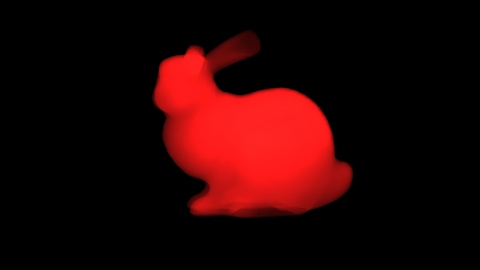
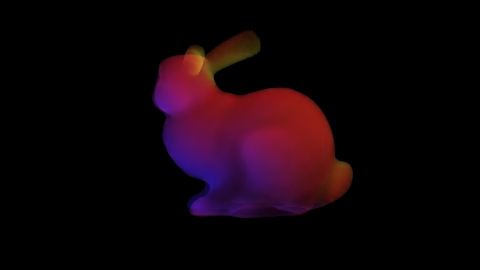
Added two more colored lights to scene; must mask field to get density of where light is and isnt

Changed region(s): [[0.3125, 0.1481, 0.75, 0.8296]]

diff --git a/base/Scene.C b/base/Scene.C
@@ -72,11 +72,21 @@ void Scene::init()
     VSP<openvdb::Vec3s> griddedColor = gridField<openvdb::Vec3SGrid, openvdb::Vec3s>(colorGrid);
 
     // Create Deep Shadow Maps
-    Light key = pointLight(Vector(0,3,0), Color(1,0.1,0.1,1));
+    Light key = pointLight(Vector(2,2,2), Color(1.0,0.1,0.1,1));
     key->setKappa(1);
     key->setDs(0.01);
-    key->createDSM(griddedObj, colorBBox, colorVxSize, 0);
+    key->createDSM(mask(griddedObj), colorBBox, colorVxSize, 0);
+    
+    Light fill = pointLight(Vector(-2,-2,2), Color(0.1,0.1,1.0,1));
+    fill->setKappa(2);
+    fill->setDs(0.01);
+    fill->createDSM(mask(griddedObj), colorBBox, colorVxSize, 0);
 
+    Light rim = pointLight(Vector(2,0,-2), Color(0.1,1.0,0.1,1));
+    rim->setKappa(4);
+    rim->setDs(0.01);
+    rim->createDSM(mask(griddedObj), colorBBox, colorVxSize, 0);
+    
     // Define where color is and is not
     VSP<Color> output = toColor(griddedColor) * mask(griddedObj);
 
@@ -84,6 +94,8 @@ void Scene::init()
     _volumes.push_back(clamp(griddedObj * constant(100.0f), 0.0f, 1.0f));
     _materials.push_back(output);
     _lights.push_back(key);
+    _lights.push_back(fill);
+    _lights.push_back(rim);
 
     std::cout << "Done!" << std::endl;
 
